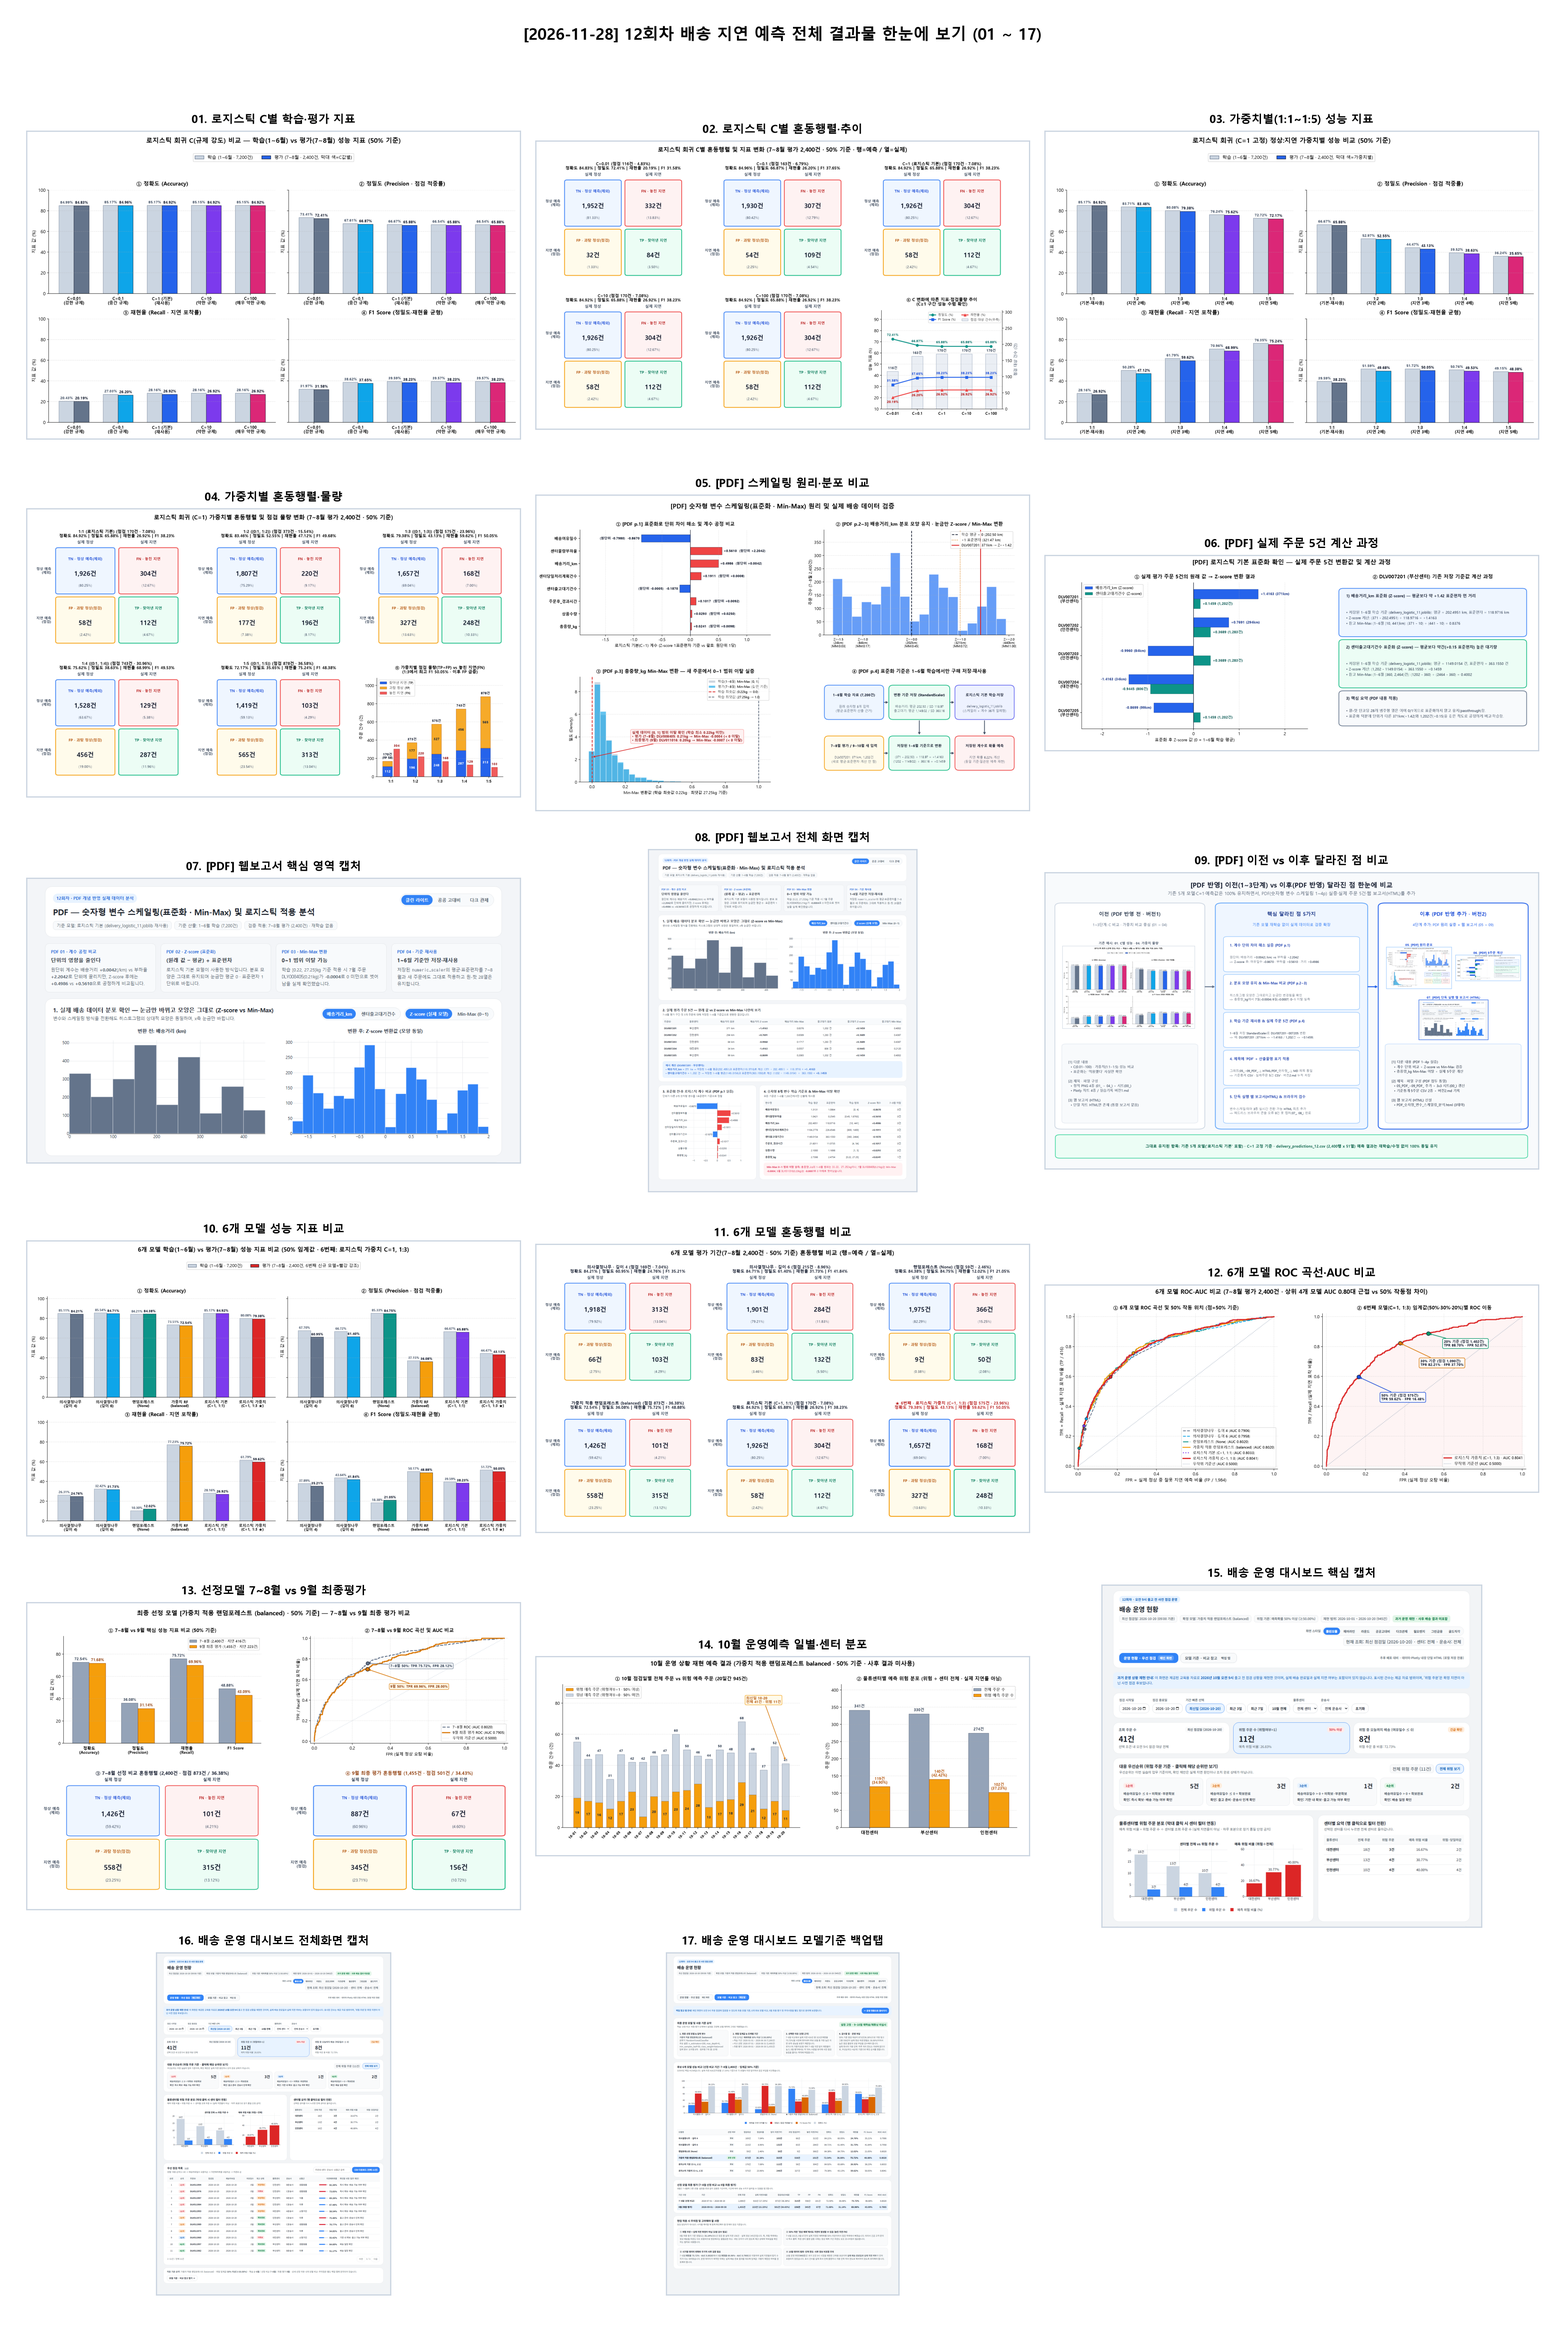
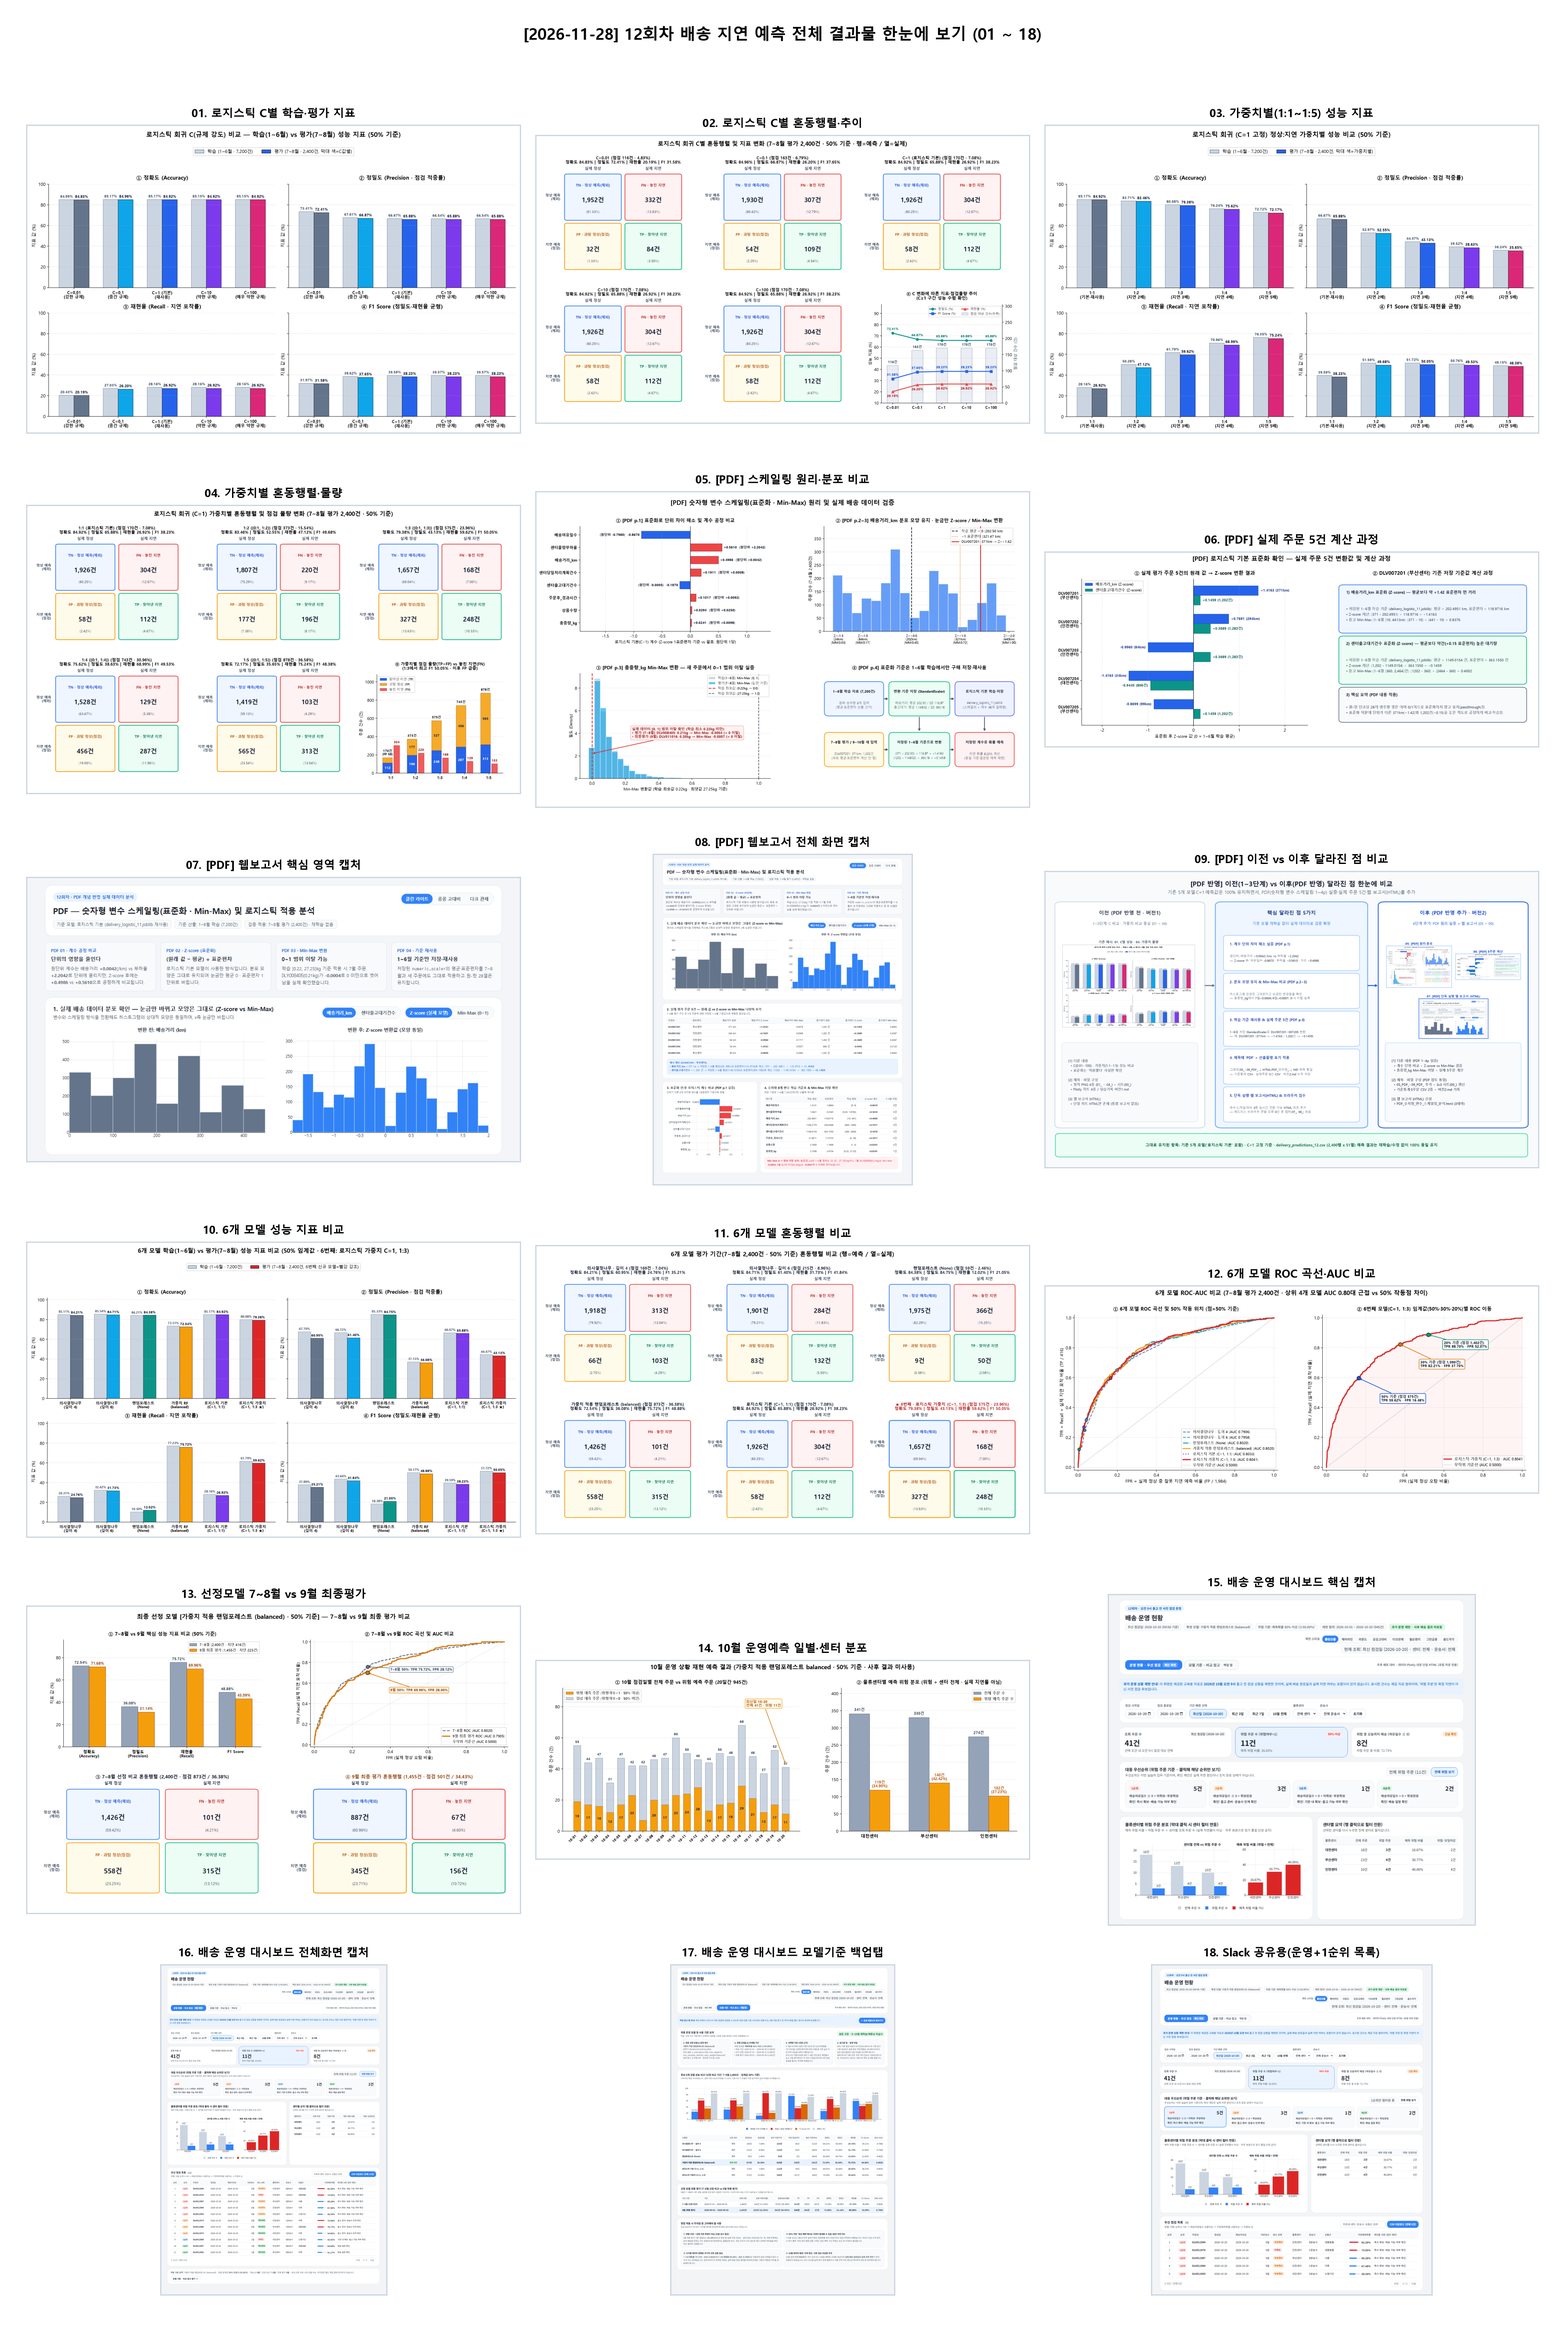
feat: add Slack-ready 1순위 capture (18_) and updated 00_ sheet for delivery_operations

diff --git a/dashboard/delivery_operations/verify_and_capture_ops_12.py b/dashboard/delivery_operations/verify_and_capture_ops_12.py
@@ -21,6 +21,7 @@ DASHBOARD_HTML = RESULTS_DIR / "delivery_operations.html"
 OUT_CORE_PNG = GRAPHS_DIR / "15_운영대시보드_제출용_캡처.png"
 OUT_FULL_PNG = GRAPHS_DIR / "16_운영대시보드_전체화면_캡처.png"
 OUT_MODEL_PNG = GRAPHS_DIR / "17_운영대시보드_모델참고탭_캡처.png"
+OUT_SLACK_PNG = GRAPHS_DIR / "18_운영대시보드_Slack공유용_1순위점검_캡처.png"
 
 
 def get_driver():
@@ -243,6 +244,21 @@ def main() -> None:
         time.sleep(0.55)
         model_h = int(driver.execute_script("return document.documentElement.scrollHeight;"))
         cdp_shot(driver, 1440, model_h + 18, OUT_MODEL_PNG)
+
+        # Capture 18_ Slack-ready view (Tab 1 Ops + Priority 1 selected -> KPIs + Center + Top Priority Rows)
+        driver.find_element(By.ID, "btn-back-ops").click()
+        time.sleep(0.35)
+        driver.find_element(By.ID, "prio-card-1").click()
+        time.sleep(0.35)
+        slack_h = int(
+            driver.execute_script(
+                """
+                const listCard = document.getElementById('list-table-wrap').closest('.card');
+                return Math.ceil(listCard.getBoundingClientRect().bottom + window.scrollY + 20);
+                """
+            )
+        )
+        cdp_shot(driver, 1440, slack_h, OUT_SLACK_PNG)
 
         try:
             logs = driver.get_log("browser")

diff --git a/dashboard/delivery_operations/capture_and_organize_12.py b/dashboard/delivery_operations/capture_and_organize_12.py
@@ -38,6 +38,7 @@ SHEET_ITEMS = [
     ("15_운영대시보드_제출용_캡처.png", "15. 배송 운영 대시보드 핵심 캡처"),
     ("16_운영대시보드_전체화면_캡처.png", "16. 배송 운영 대시보드 전체화면 캡처"),
     ("17_운영대시보드_모델참고탭_캡처.png", "17. 배송 운영 대시보드 모델기준 백업탭"),
+    ("18_운영대시보드_Slack공유용_1순위점검_캡처.png", "18. Slack 공유용(운영+1순위 목록)"),
 ]
 
 
@@ -151,7 +152,7 @@ def make_contact_sheet() -> None:
     for j in range(len(SHEET_ITEMS), len(axes_flat)):
         axes_flat[j].axis("off")
 
-    fig.suptitle("[2026-11-28] 12회차 배송 지연 예측 전체 결과물 한눈에 보기 (01 ~ 17)", fontsize=15.5, fontweight="bold", y=0.989)
+    fig.suptitle("[2026-11-28] 12회차 배송 지연 예측 전체 결과물 한눈에 보기 (01 ~ 18)", fontsize=15.5, fontweight="bold", y=0.989)
     plt.tight_layout(rect=[0.01, 0.01, 0.99, 0.968], h_pad=2.2, w_pad=1.5)
     fig.savefig(OUT_SHEET, dpi=170)
     plt.close(fig)

diff --git a/dashboard/delivery_operations/2026-11-28_배송예측_모델고도화_종합실습기록_버전6.md b/dashboard/delivery_operations/2026-11-28_배송예측_모델고도화_종합실습기록_버전6.md
@@ -52,6 +52,6 @@
      - **백업 탭(`모델 기준 · 비교 참고`):** 최종 모델(`RandomForestClassifier`), `50% 이상` 임계값, 학습(`1~6월`)·비교선정(`7~8월`)·최종평가(`9월`) 기간, 선정 이유, 후보 6개 모델 비교 차트·표, `7~8월 vs 9월` 변화, 현업 주의점 4항목 정리.
 - **헤드리스 브라우저 검증 (`results/verify_and_capture_ops_12.py`):**
   - 기본(`최신 점검일: 2026-10-20 (09:00 기준)` · `41/11/8`, `1~4순위 5/3/1/2`), 1순위 필터·CSV(`5건`), 단일 점검일(`2026-10-19`: `52/17/10`), 최근 3일(`10/18~20`: `130/40/28`, CSV `40건`), 최근 7일(`344/125/84`, CSV `125건`), Plotly 막대 클릭·해제 및 요약 표 연동(`부산센터 114/53`), `부산센터+B운송사`(`50/31/19`)·검색(`DLV011987` `1건`), 빈 결과 `계산 불가`·비활성, 초기화·8테마 전환, 백업 탭(`6개 모델·9월 평가표·Plotly 비교 차트`) 전환·복귀 및 **콘솔 오류 `0건`** 통과.
-- **산출물 및 캡처 (로컬 데이터 내장 HTML 저장 전용 · 미배포):**
-  - `results/delivery_operations.html`, `results/build_operations_dashboard_12.py`, `results/verify_and_capture_ops_12.py`
-  - `graphs/15_운영대시보드_제출용_캡처.png`, `graphs/16_운영대시보드_전체화면_캡처.png`, `graphs/17_운영대시보드_모델참고탭_캡처.png`, `graphs/00_전체_결과물_한눈에보기.png` (`01 ~ 17`)
+- **산출물 및 캡처 (`GitHub dashboard/delivery_operations/` 반영 포함):**
+  - `results/delivery_operations.html`, `results/build_operations_dashboard_12.py`, `results/verify_and_capture_ops_12.py`, `results/capture_and_organize_12.py`
+  - `graphs/15_운영대시보드_제출용_캡처.png`, `graphs/16_운영대시보드_전체화면_캡처.png`, `graphs/17_운영대시보드_모델참고탭_캡처.png`, `graphs/18_운영대시보드_Slack공유용_1순위점검_캡처.png`, `graphs/00_전체_결과물_한눈에보기.png` (`01 ~ 18`)
